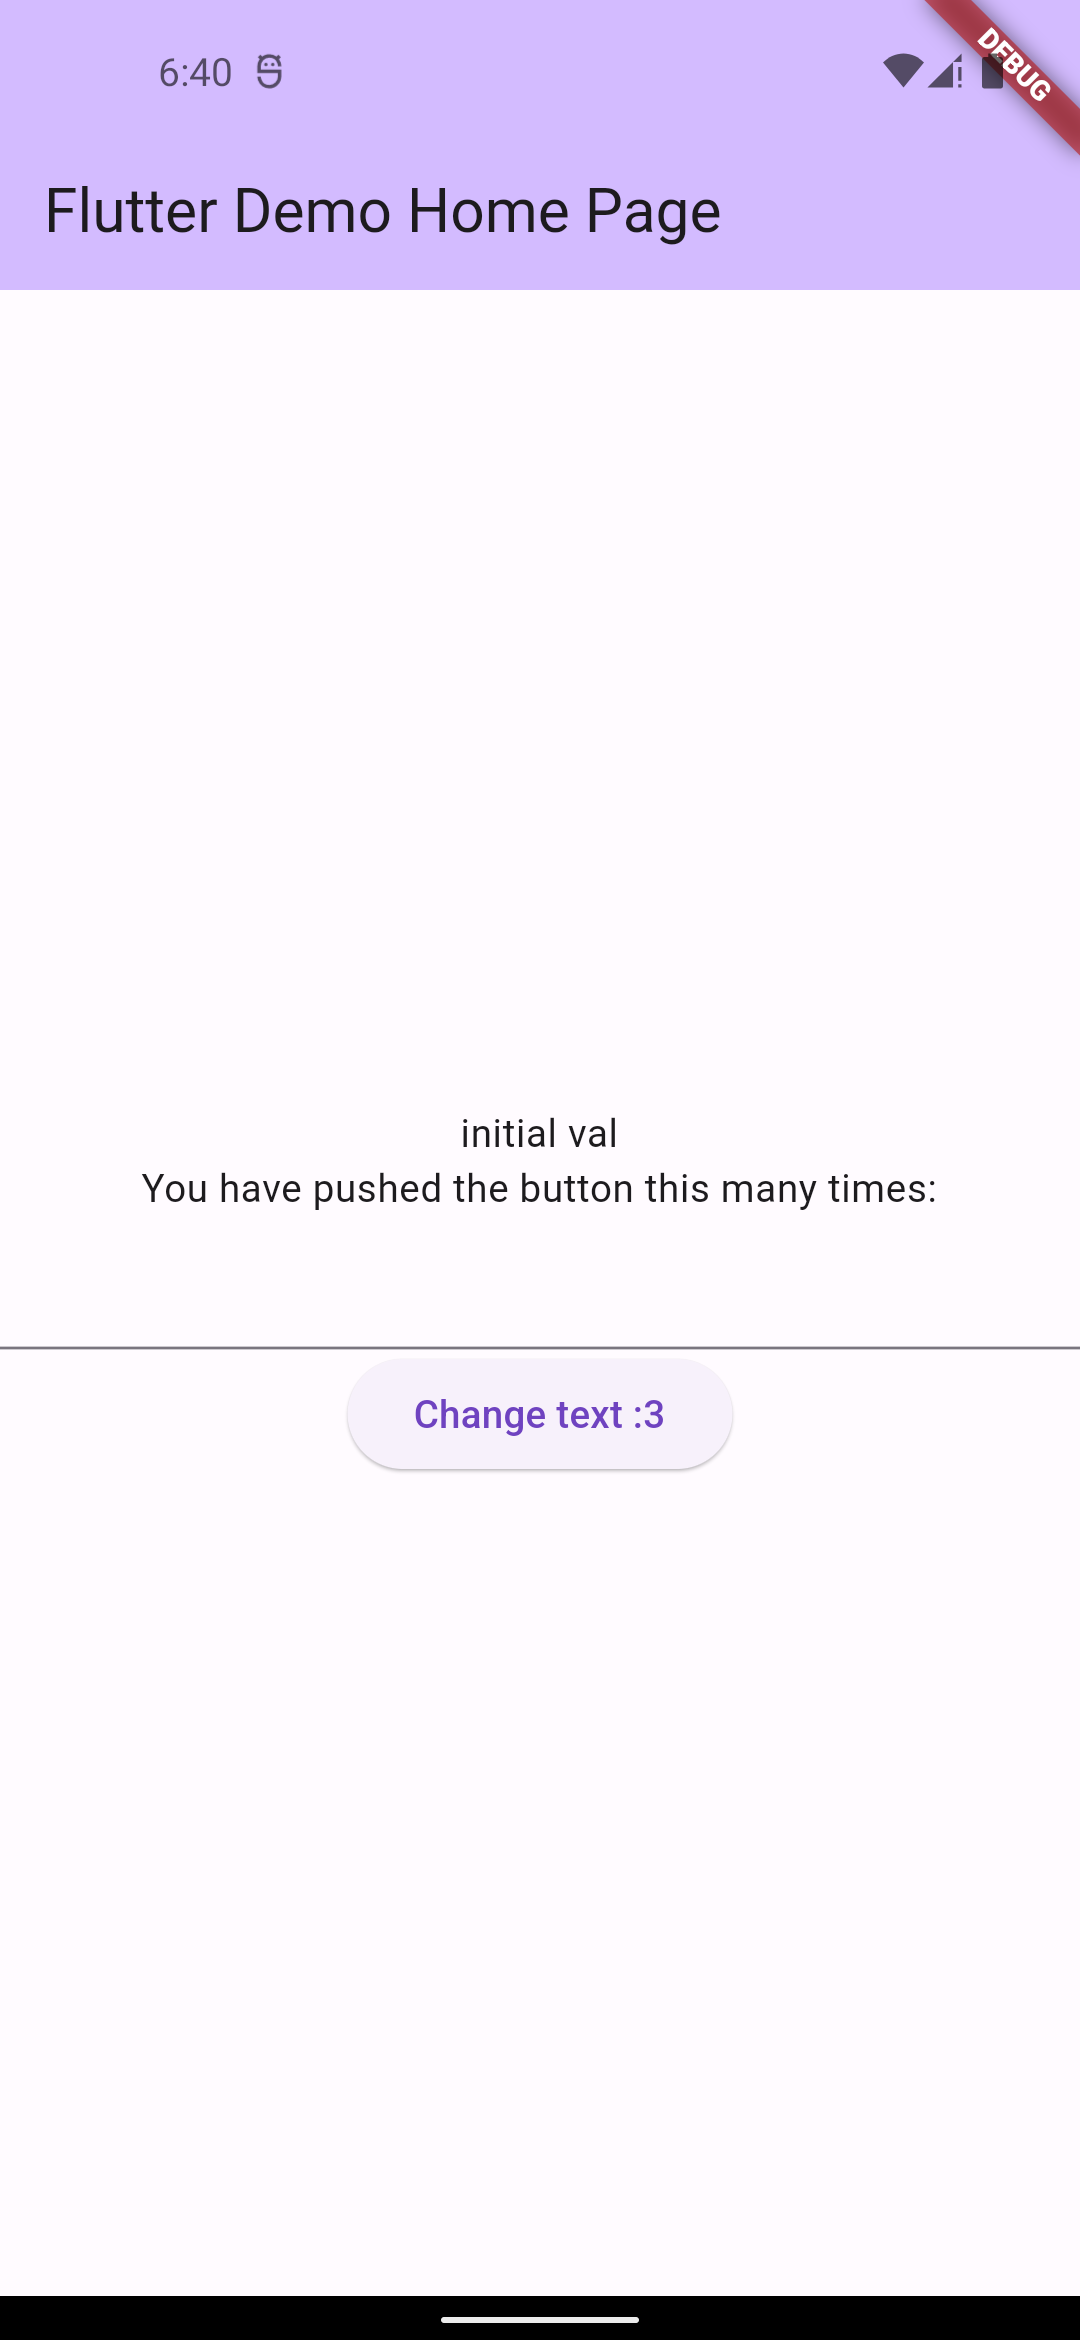
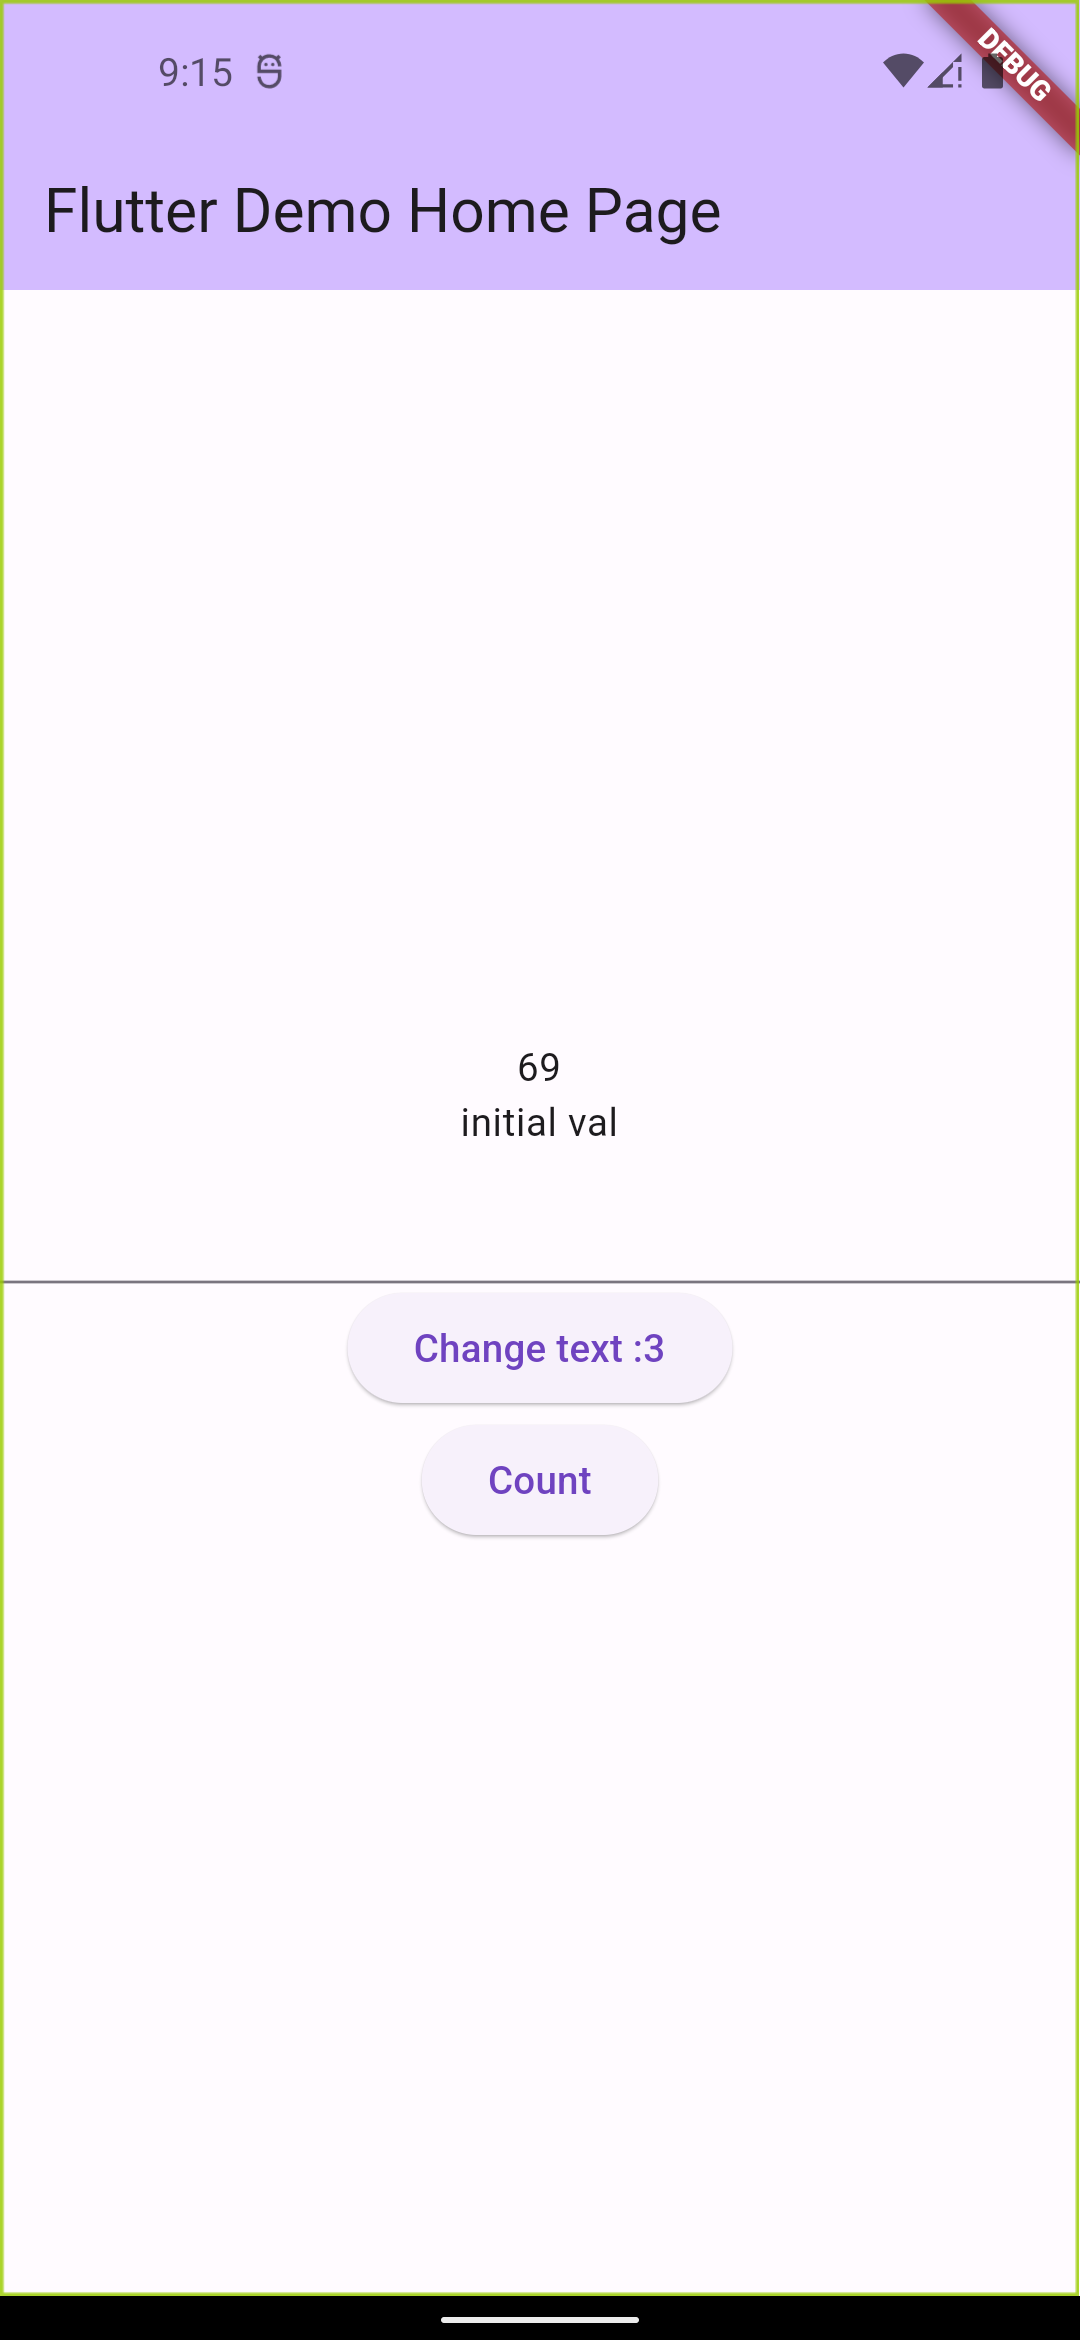
provider basic added

diff --git a/Practices/_t04_provider/lib/main.dart b/Practices/_t04_provider/lib/main.dart
@@ -62,9 +62,6 @@ class _MyHomePageState extends State<MyHomePage> {
           children: [
             Text("${context.watch<CountNotifier>().val}"),
             Text(context.watch<SomeProvider>().someVal),
-            const Text(
-              'You have pushed the button this many times:',
-            ),
             TextField(
               controller: someValController,
             ),

diff --git a/Practices/_t04_provider/README.md b/Practices/_t04_provider/README.md
@@ -12,6 +12,8 @@ A new Flutter project.
 ## Screenshots
 
 
-<img src="screenshots/1.png" height="330" /> 
-<img src="screenshots/2.png" height="330" /> 
-<img src="screenshots/3.png" height="330" /> 
+<img src="screenshots/1.png" height="400" /> 
+<img src="screenshots/2.png" height="400" /> 
+<img src="screenshots/3.png" height="400" /> 
+<img src="screenshots/4.png" height="400" /> 
+
